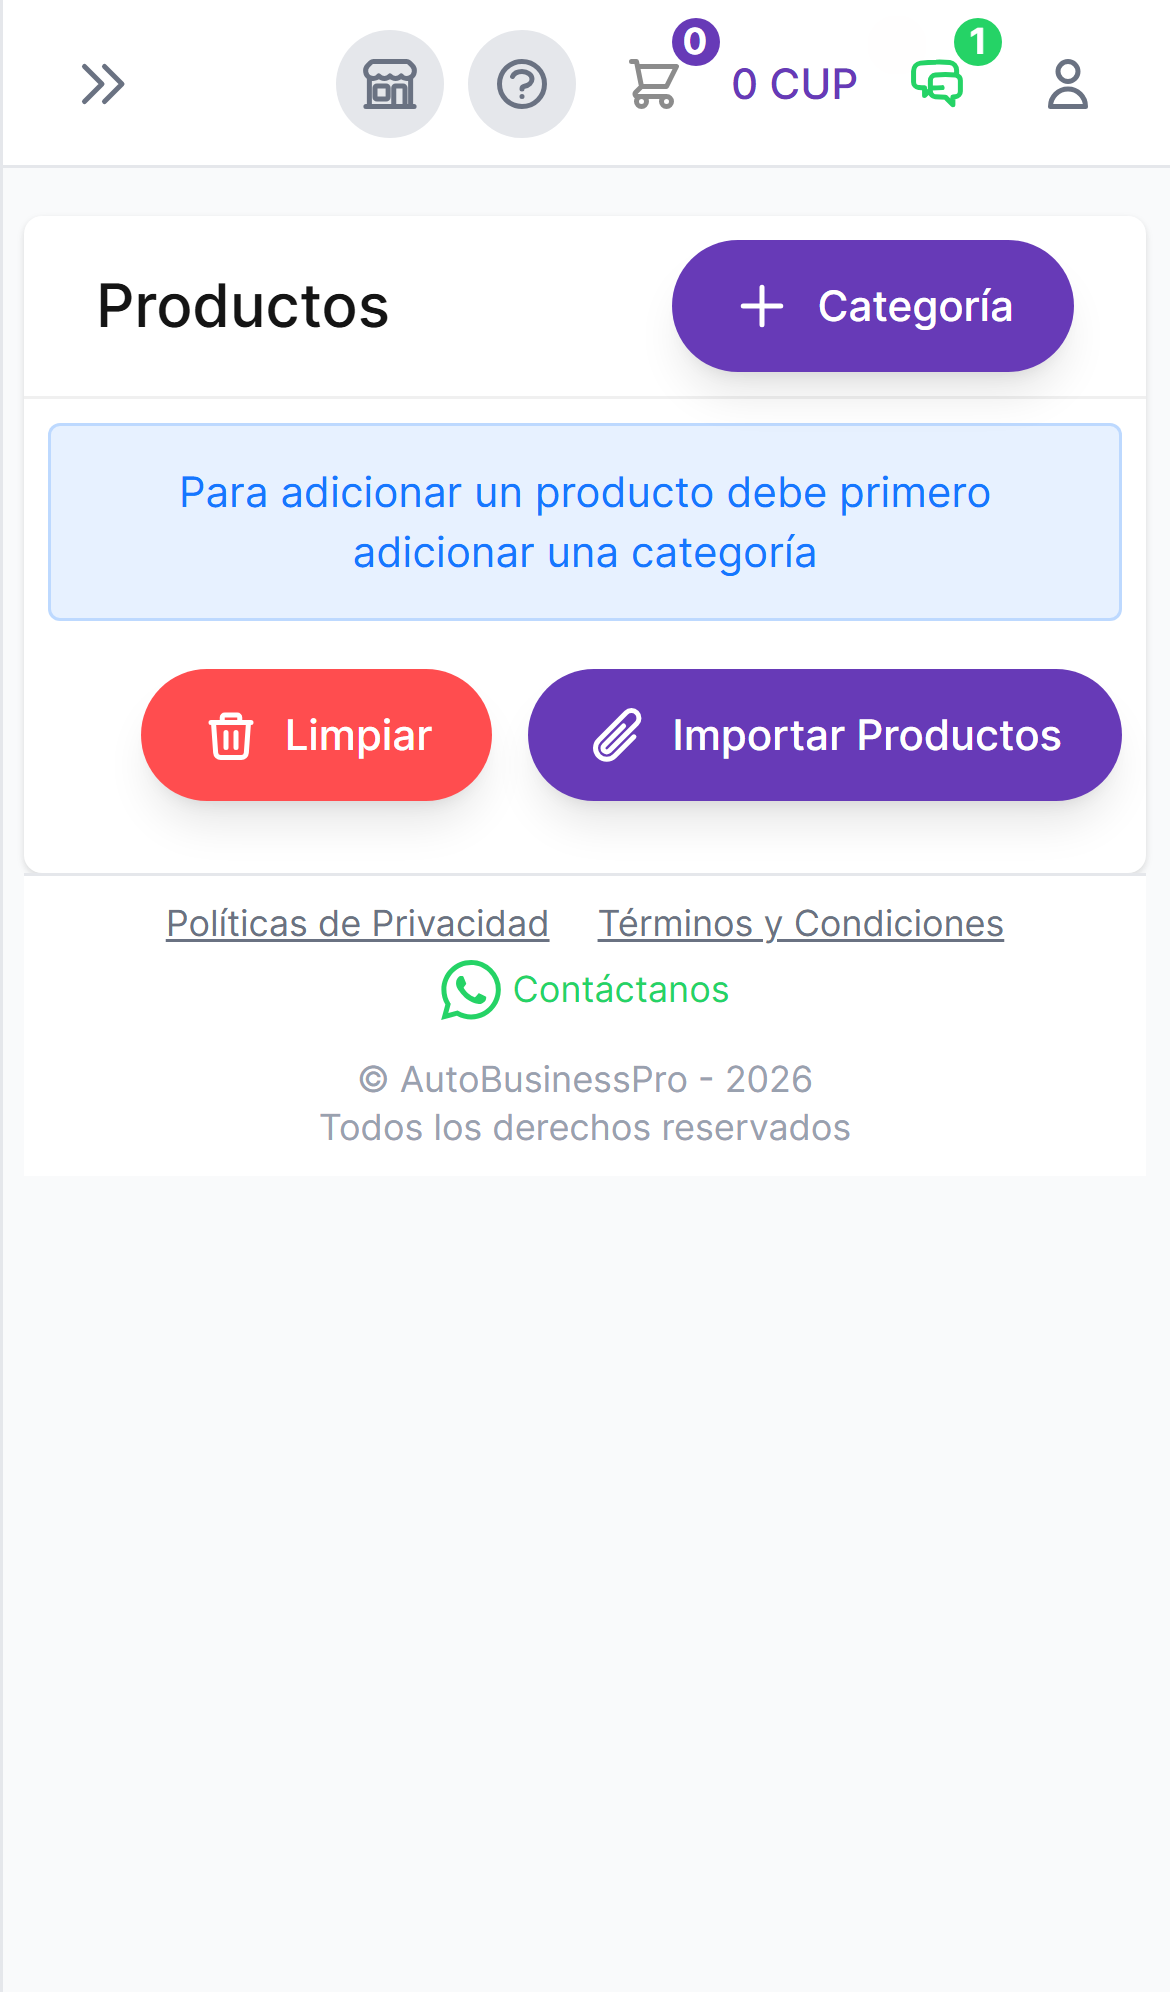
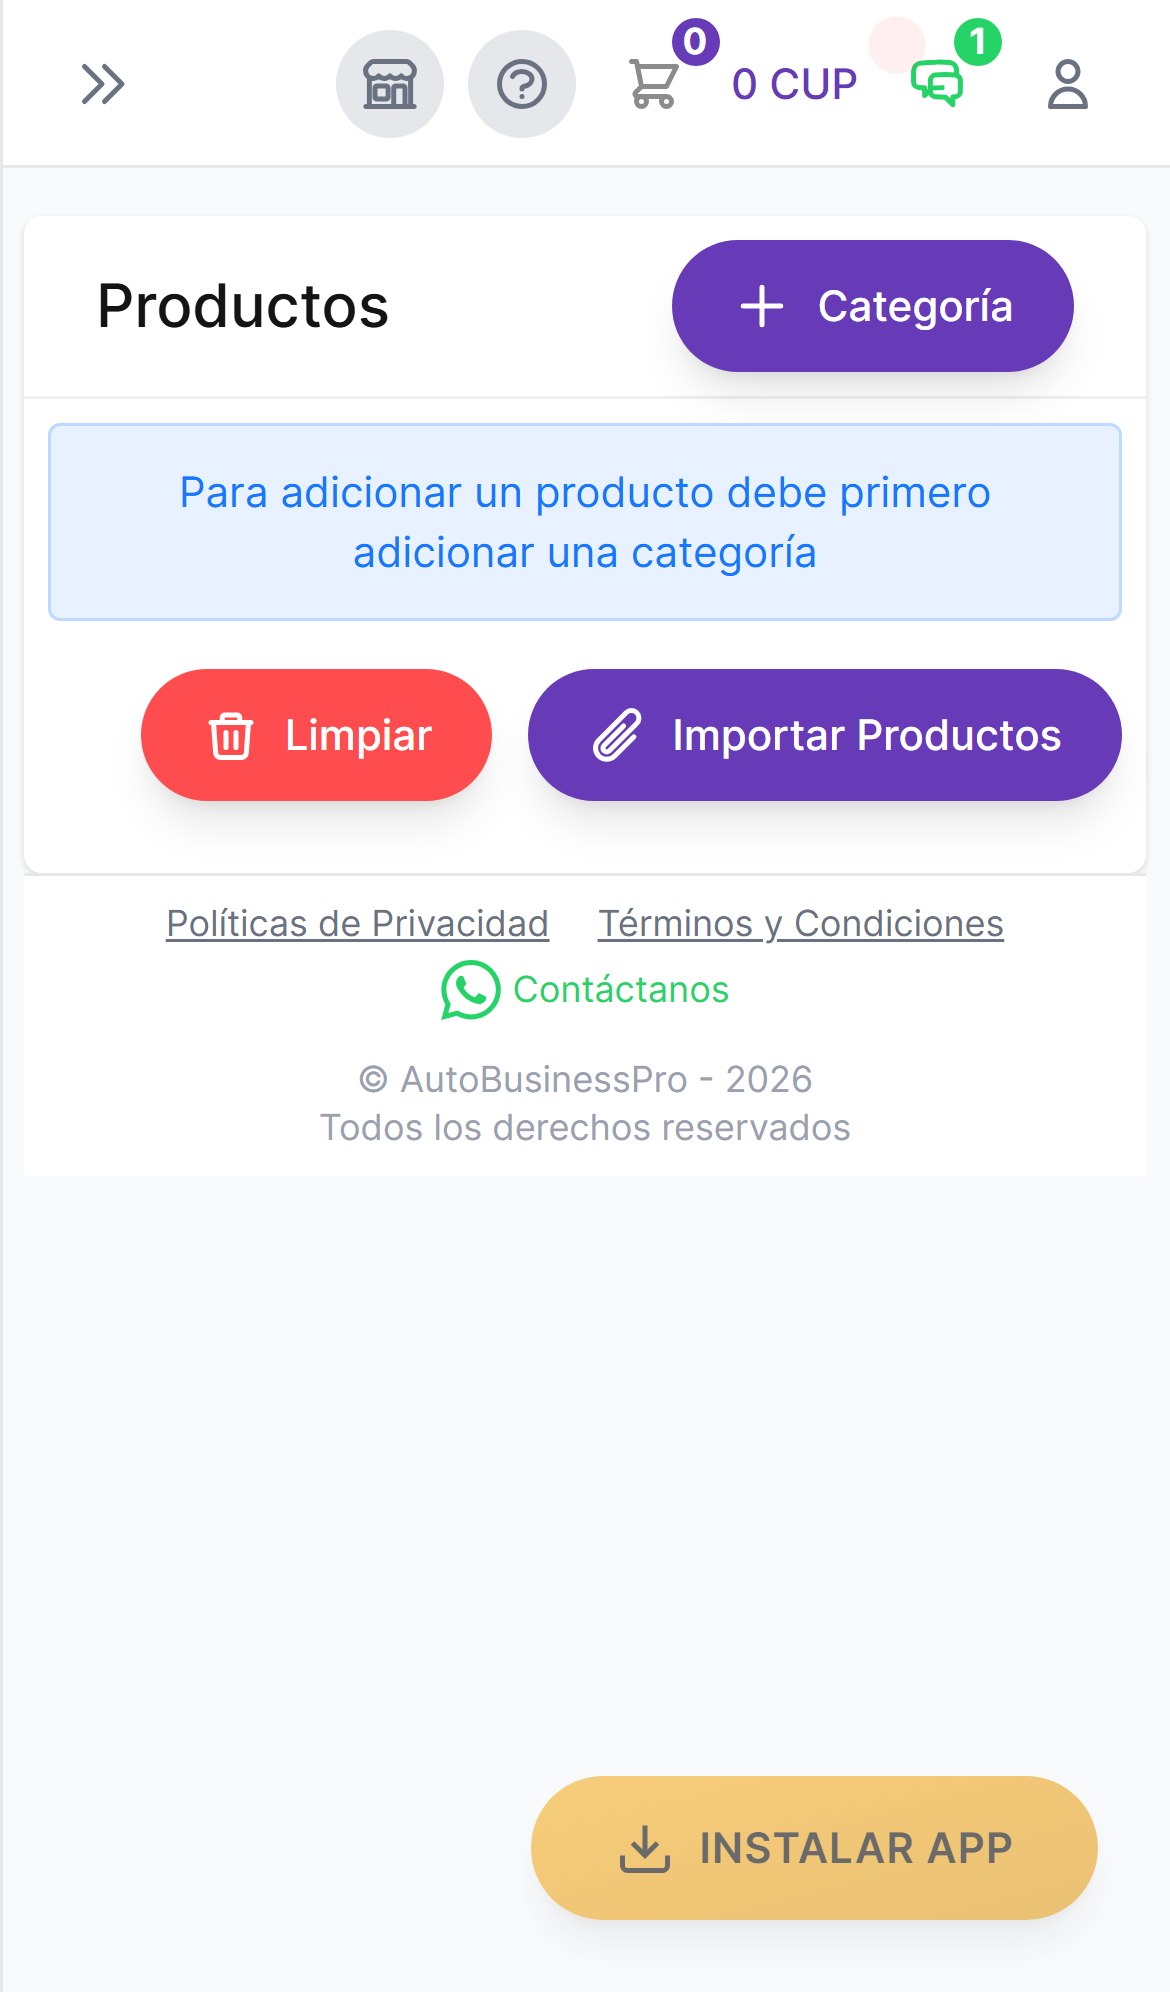
docs(manual): keep the install button in the home capture

Changed region(s): [[0.4308, 0.8715, 0.9538, 0.9649]]

diff --git a/docs/manual/manual-usuario-pos.md b/docs/manual/manual-usuario-pos.md
@@ -42,10 +42,11 @@ instalado en el dispositivo.
 4. Marca la casilla de **términos y condiciones** (hay un enlace para leerlos).
 5. Pulsa **Registrar**. La cuenta se crea, **entra automáticamente** y te lleva a tu **página
    de inicio** (el catálogo **Productos**, todavía vacío porque aún no has cargado nada).
-6. **Instala la app en el dispositivo.** Pulsa el botón flotante **INSTALAR APP**. El
-   dispositivo **añade el ícono de la app automáticamente**: espera a verlo aparecer en la
-   pantalla de inicio (o en el escritorio) y abre la app desde ahí a partir de ahora. Es lo
-   que permite trabajar **sin conexión**.
+6. **Instala la app en el dispositivo.** En tu **página de inicio** verás el botón flotante
+   **INSTALAR APP**: púlsalo. El dispositivo **añade el ícono de la app automáticamente**;
+   espera a verlo aparecer en la pantalla de inicio (o en el escritorio) y abre la app desde
+   ahí a partir de ahora — así trabaja **sin conexión**. Cuando la app queda instalada, el
+   botón **desaparece** (ya no hace falta).
 
 **A tener en cuenta.** Todo es obligatorio salvo el email. Si el alta se interrumpe justo al
 final, la cuenta ya puede existir: se te avisa y se te lleva a la pantalla de acceso.
